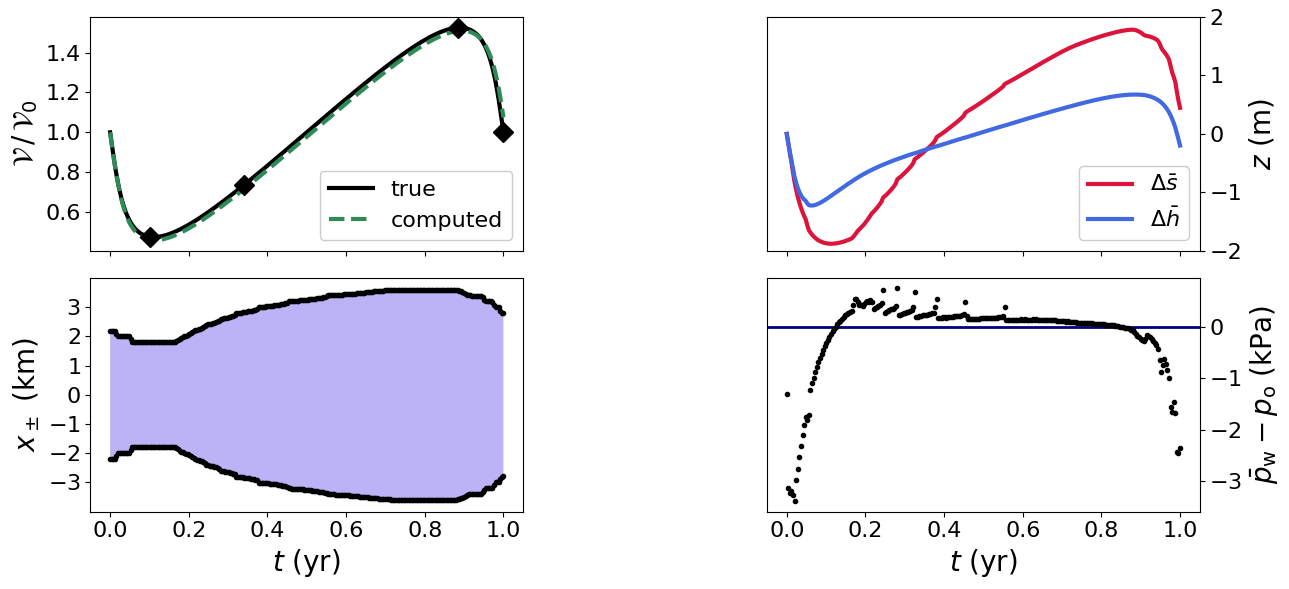
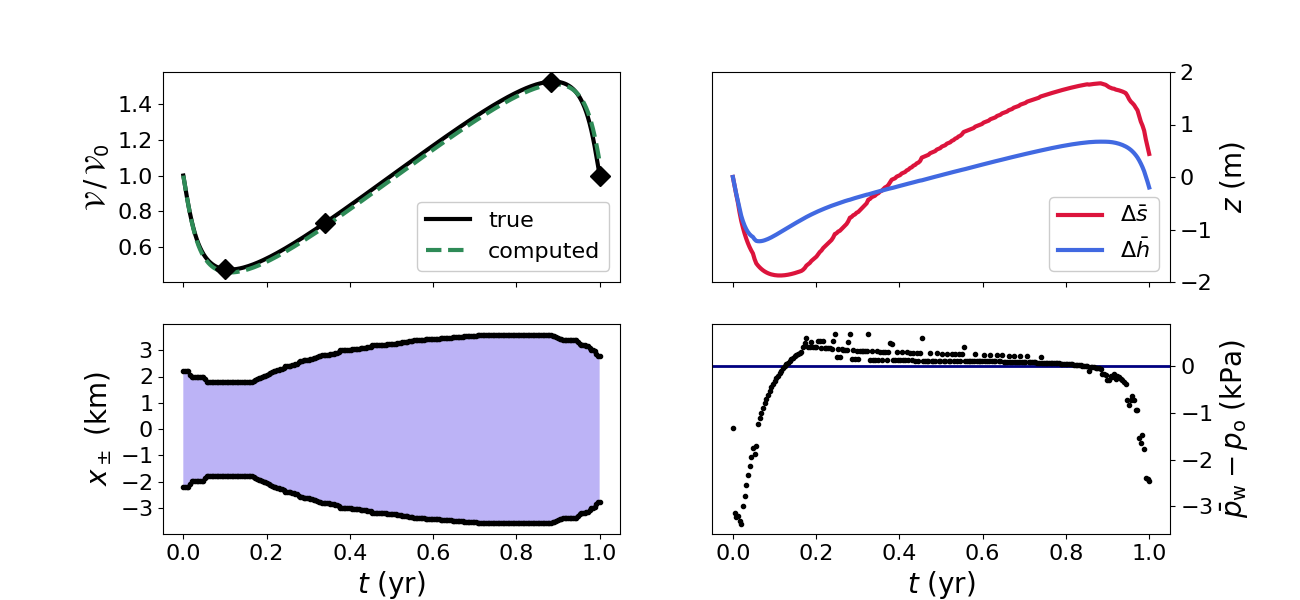
plotting script edits
edited plot for the quick test problem

diff --git a/scripts/plotting.py b/scripts/plotting.py
@@ -87,7 +87,6 @@ def testplot_1(s_mean,h_mean,lake_vol,x_right,x_left,dPw):
     plt.yticks(fontsize=16)
     plt.legend(fontsize=16,loc='lower right',framealpha=1.0)
 
-
     plt.subplot(222)
     p1, = plt.plot(t/3.154e7,s_mean-s_mean[0],'crimson',label=r'$\Delta\bar{s}$',linewidth=3)
     p2, = plt.plot(t/3.154e7,h_mean-h_mean[0],'royalblue',label=r'$\Delta\bar{h}$',linewidth=3)
@@ -121,12 +120,12 @@ def testplot_1(s_mean,h_mean,lake_vol,x_right,x_left,dPw):
     plt.xlabel(r'$t$ (yr)',fontsize=20)
     plt.gca().yaxis.tick_right()
     plt.gca().yaxis.set_label_position("right")
-
     plt.ylabel(r'$\bar{p}_\mathrm{w}-p_\mathrm{o}$ (kPa)',fontsize=20)
     plt.xticks(fontsize=16)
     plt.yticks(fontsize=16)
-    plt.tight_layout()
-    plt.savefig('lake_test_1', bbox_inches='tight')
+
+    plt.savefig('lake_test_1')
+    plt.close()
 
 #-------------------------------------------------------------------------------
 

diff --git a/source/params.py b/source/params.py
@@ -6,9 +6,8 @@ import numpy as np
 # Default parameters correspond to the test case, which outpouts png plots
 # that should be compared to the plots in the 'test results' folder
 
+# plotting flag
 model_setup = 'quick_test'                        # set for quick example
-
-#model_setup = 'wedge_test'                 # set for 'wedge' tests
 
 # Set model to 'lake' for subglacial lake or 'marine' for marine ice sheet:
 model = 'lake'
@@ -77,7 +76,7 @@ t_final =1*3.154e7                 # Final time (yr*sec_per_year).
 nt = int(nt_per_year*t_final/3.154e7) # Number of time steps
 dt = t_final/nt                       # Timestep size
 
-nx = 4*int(Lngth/DX_s)
+nx = 10*int(Lngth/DX_s)
 X_fine = np.linspace(0,Lngth,num=nx)  # Horizontal coordinate for computing surface
                                       # slopes and plotting.
 

diff --git a/source/meshfcns.py b/source/meshfcns.py
@@ -263,8 +263,7 @@ def plot_surfaces(F_h,F_s,XL,XR):
         plt.ylim(np.min(bed(X))-2.0,25.0,8)
         plt.xlim(-0.5*Lngth/1000,0.5*Lngth/1000)
         plt.tight_layout()
-        lgd = plt.legend(fontsize=20,bbox_to_anchor=(1.05, -0.12),ncol=4)
-        plt.savefig('surfaces',bbox_extra_artists=(lgd,),bbox_inches='tight')
+        plt.savefig('surfaces',bbox_inches='tight')
         plt.close()
 
 #------------------------------------------------------------------------------

diff --git a/source/model_examples/params_wedge.py b/source/model_examples/params_wedge.py
@@ -75,7 +75,7 @@ t_final =1*3.154e7                 # Final time (yr*sec_per_year).
 nt = int(nt_per_year*t_final/3.154e7) # Number of time steps
 dt = t_final/nt                       # Timestep size
 
-nx = 4*int(Lngth/DX_s)
+nx = 10*int(Lngth/DX_s)
 X_fine = np.linspace(0,Lngth,num=nx)  # Horizontal coordinate for computing surface
                                       # slopes and plotting.
 

diff --git a/README.md b/README.md
@@ -174,3 +174,6 @@ The `mesh_name.msh` file generate by Gmsh is then converted to a .xml file via
 To generate the mesh for the tidal problem (i.e., tides_DX12 in *meshes* directory)
 run the model with the parameter file **params_marine.py** (stored in *source/model_examples*)
 and use the command in the previous paragraph.
+
+#Acknowledgements
+Many thanks to Ed Bueler's (UAF) who introduced me to free surface Stokes problems during UAF's 2018 International Summer School in Glaciology, and to the UAF Glaciers group (https://glaciers.gi.alaska.edu/) for hosting the summer school. Marc Spiegelman and Tim Creyts (Columbia University, LDEO) advised me throughout this project.
